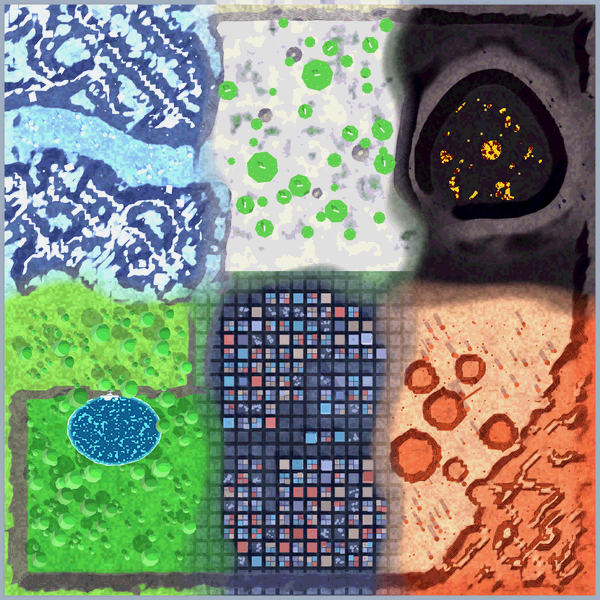
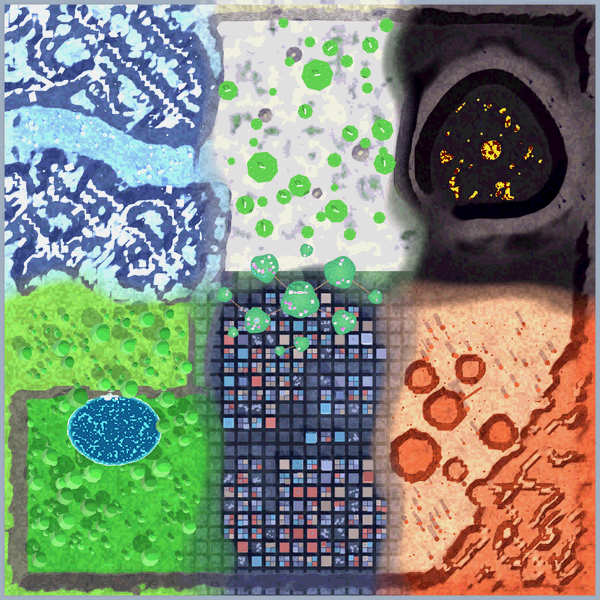
Add Heartbloom renders and the updated map; file T-D12b in review

diff --git a/TODO.md b/TODO.md
@@ -16,6 +16,9 @@ and `[desktop]` (cloud agents). See `AGENTS.md` for folder ownership.
 - T-D12 [desktop] World map grey-block: 2 km procedural terrain (chunked, 4 LODs),
   six zones with landmarks, atmosphere/time of day/weather, energy dome,
   `WorldMap` API and flythrough preview, PR #39.
+- T-D12b [desktop] Heartbloom Gardens, the 7th zone: floating cherry-blossom
+  archipelago over the map centre, Heart Arch, Wishing Fountain, lantern
+  bridges, `IslandField` second ground layer, whirlwind/fountain markers.
 - T-116 [developer] VFX prewarm at arena load behind a short loading cover.
 - T-D09b [desktop] VFX fixes from the GTX 1650 check of T-D09: shockwave no
   longer cut by the ground, aura never darkens the body, flames break into
